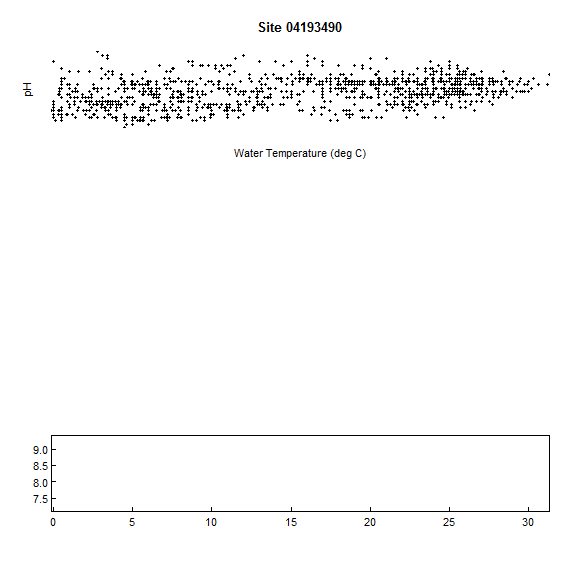
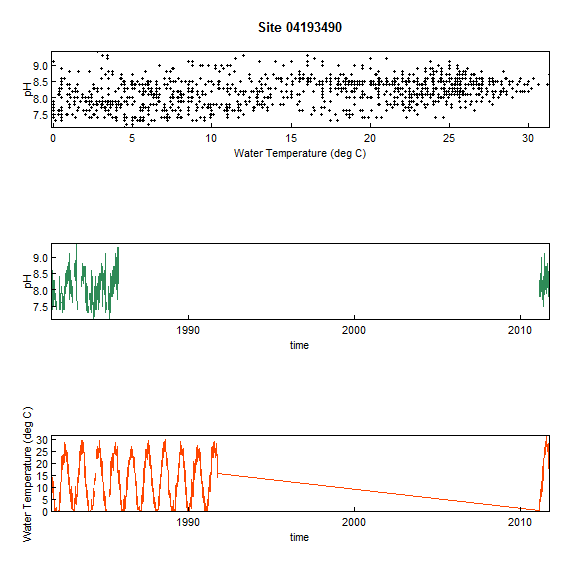
Rebuild vignette and readme

diff --git a/inst/doc/gsplotIntro.html b/inst/doc/gsplotIntro.html
@@ -69,7 +69,7 @@ code > span.in { color: #60a0b0; font-weight: bold; font-style: italic; } /* Inf
 
 <h1 class="title toc-ignore">Introduction to gsplot.</h1>
 <h4 class="author"><em>Jordan Read, Laura DeCicco, Jordan Walker, Phethala Thongsavanh, Lindsay Carr</em></h4>
-<h4 class="date"><em>07 February, 2017</em></h4>
+<h4 class="date"><em>08 February, 2017</em></h4>
 
 
 <div id="TOC">
@@ -127,7 +127,7 @@ demoPlot &lt;-<span class="st"> </span><span class="kw">gsplot</span>(<span clas
 <span class="st">  </span><span class="kw">grid</span>()
 demoPlot</code></pre></div>
 <div class="figure">
[2 lines of base64/hex data omitted]
 <p class="caption">Fig. 1 Simple flow timeseries using <code>gsplot</code>.</p>
 </div>
 </div>
@@ -163,19 +163,11 @@ plot3 &lt;-<span class="st"> </span><span class="kw">gsplot</span>() %&gt;%<span
 <span class="st">  </span><span class="kw">title</span>(<span class="dt">main=</span><span class="st">&quot;&quot;</span>, <span class="dt">xlab=</span><span class="st">&quot;time&quot;</span>, <span class="dt">ylab=</span><span class="st">&quot;Water Temperature (deg C)&quot;</span>)
 
 <span class="kw">layout</span>(<span class="kw">matrix</span>(<span class="kw">c</span>(<span class="dv">1</span>,<span class="dv">2</span>,<span class="dv">3</span>), <span class="dt">byrow=</span><span class="ot">TRUE</span>, <span class="dt">nrow=</span><span class="dv">3</span>))
-plot1</code></pre></div>
+plot1
+plot2
+plot3</code></pre></div>
 <div class="figure">
[1 lines of base64/hex data omitted]
-<p class="caption">Fig. 3 (a) pH vs water temperature, (b) pH timeseries, (c) water temperature timeseries.</p>
-</div>
-<div class="sourceCode"><pre class="sourceCode r"><code class="sourceCode r">plot2</code></pre></div>
-<div class="figure">
[1 lines of base64/hex data omitted]
-<p class="caption">Fig. 3 (a) pH vs water temperature, (b) pH timeseries, (c) water temperature timeseries.</p>
-</div>
-<div class="sourceCode"><pre class="sourceCode r"><code class="sourceCode r">plot3</code></pre></div>
-<div class="figure">
[2 lines of base64/hex data omitted]
 <p class="caption">Fig. 3 (a) pH vs water temperature, (b) pH timeseries, (c) water temperature timeseries.</p>
 </div>
 </div>

diff --git a/README.md b/README.md
@@ -386,21 +386,11 @@ plot3 <- gsplot() %>%
 
 layout(matrix(c(1,2,3), byrow=TRUE, nrow=3))
 plot1
-```
-
-![](README_files/figure-markdown_github/unnamed-chunk-23-1.png)
-
-``` r
 plot2
-```
-
-![](README_files/figure-markdown_github/unnamed-chunk-23-2.png)
-
-``` r
 plot3
 ```
 
-![](README_files/figure-markdown_github/unnamed-chunk-23-3.png)
+![](README_files/figure-markdown_github/unnamed-chunk-23-1.png)
 
 Disclaimer
 ----------
